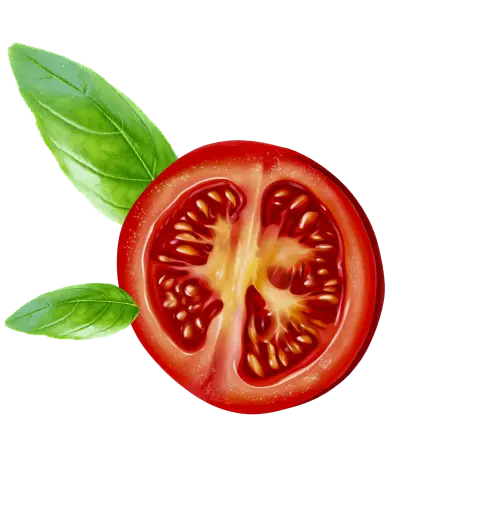
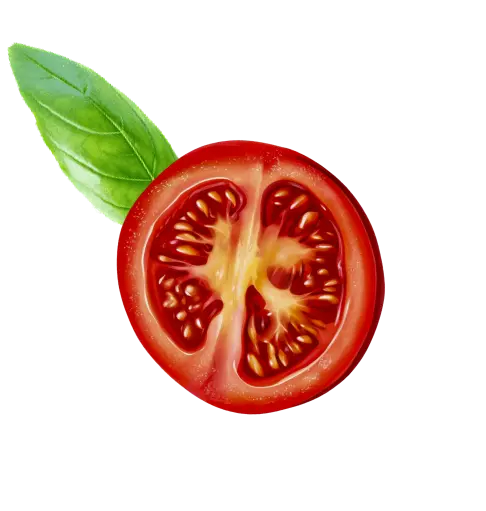
added contacts page hero section

Changed region(s): [[0.0, 0.5284, 0.3086, 0.6751]]

diff --git a/src/components/contacts/hero/HeroImages.tsx b/src/components/contacts/hero/HeroImages.tsx
@@ -1,9 +1,41 @@
-import React from "react";
+import Image from "next/image";
 
 export default function HeroImages() {
   return (
     <>
-      <div className="absolute -z-10 top-[320px] xl:top-[283px] left-[calc(50%-528px)] w-[1055px] h-[1068px] backdrop-blur-[7px] xl:backdrop-blur-[14px] rounded-full bg-white bg-opacity-[12%] shadow-inner-custom"></div>
+      <Image
+        src="/images/contacts/hero/tomatoeSmallMob.webp"
+        alt="tomatoe"
+        width={512}
+        height={337}
+        priority
+        className="xl:hidden absolute -z-10 top-[231px] right-[calc(50%-175px)] w-[256px] h-auto"
+      />
+      <Image
+        src="/images/contacts/hero/tomatoeLargeMob.webp"
+        alt="tomatoe"
+        width={486}
+        height={511}
+        priority
+        className="xl:hidden absolute -z-30 top-[165px] right-[calc(50%-166px)] w-[243px] h-auto"
+      />
+      <Image
+        src="/images/contacts/hero/tomatoeSmallDesk.webp"
+        alt="tomatoe"
+        width={446}
+        height={534}
+        priority
+        className="hidden xl:block absolute -z-10 top-[264px] right-[calc(50%-450px)] w-[223px] h-auto"
+      />
+      <Image
+        src="/images/contacts/hero/tomatoeLargeDesk.webp"
+        alt="tomatoe"
+        width={486}
+        height={388}
+        priority
+        className="hidden xl:block absolute -z-20 bottom-0 right-[calc(50%-557px)] w-[243px] h-auto"
+      />
+      <div className="absolute -z-20 top-[320px] xl:top-[283px] left-[calc(50%-528px)] w-[1055px] h-[1068px] backdrop-blur-[7px] xl:backdrop-blur-[14px] rounded-full bg-white bg-opacity-[12%] shadow-inner-custom"></div>
     </>
   );
 }
